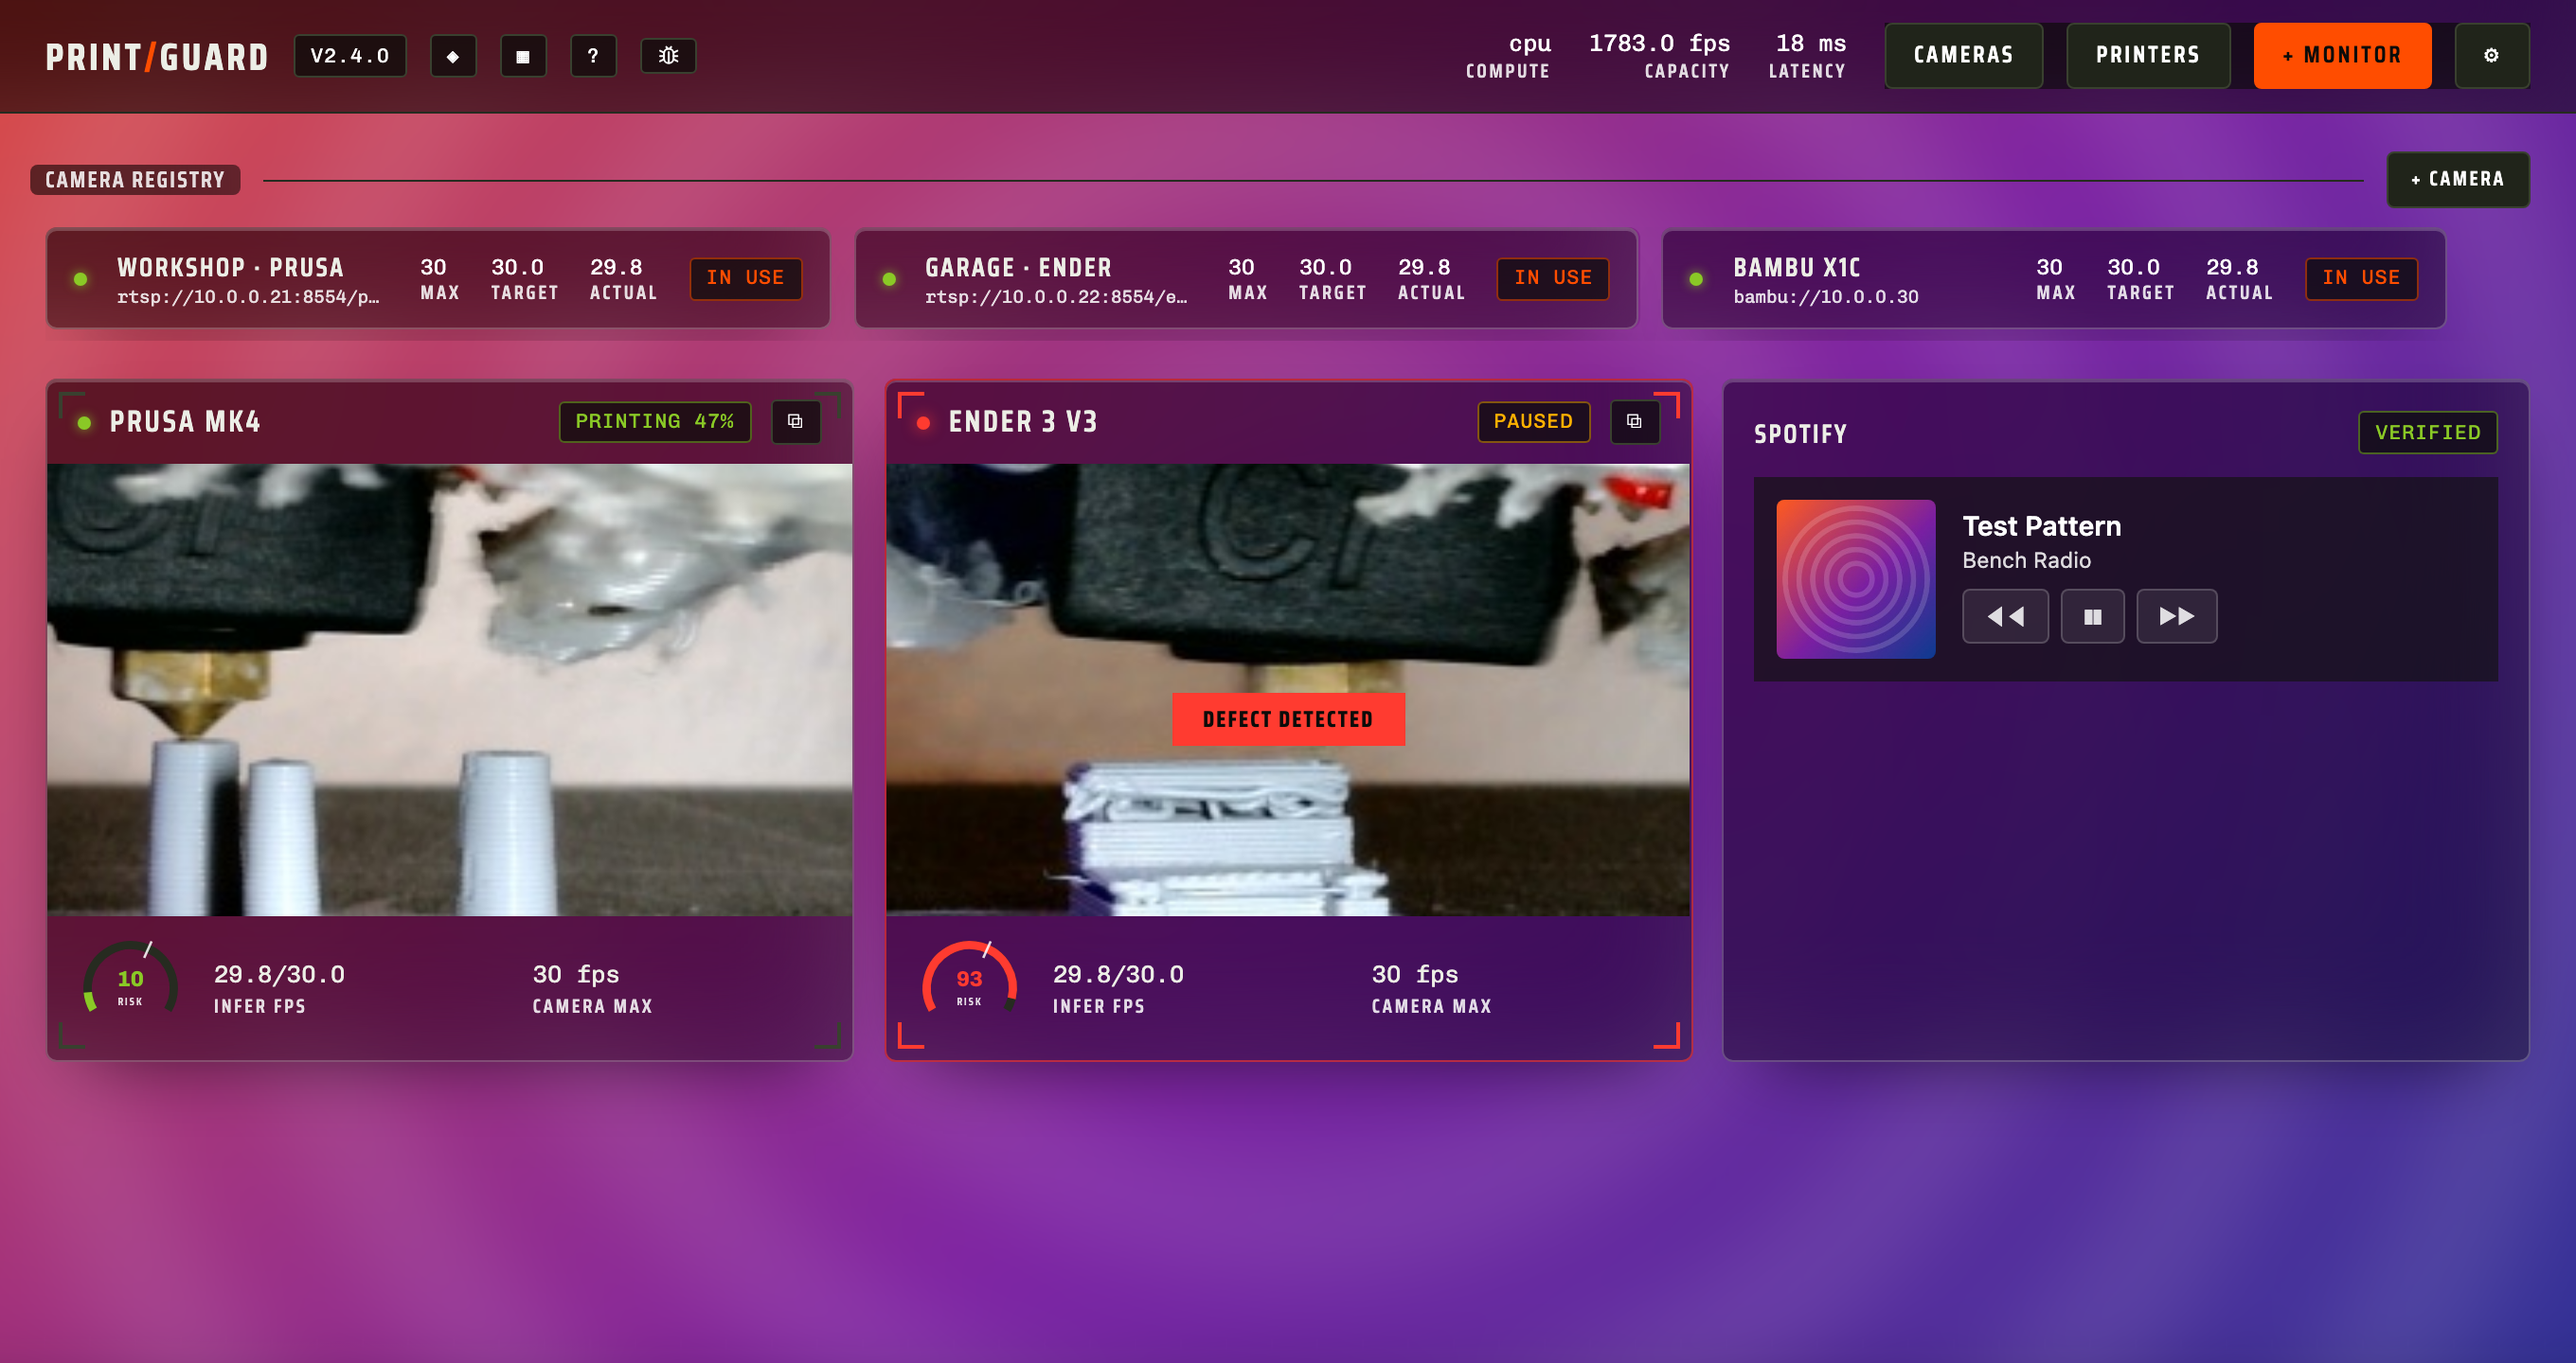
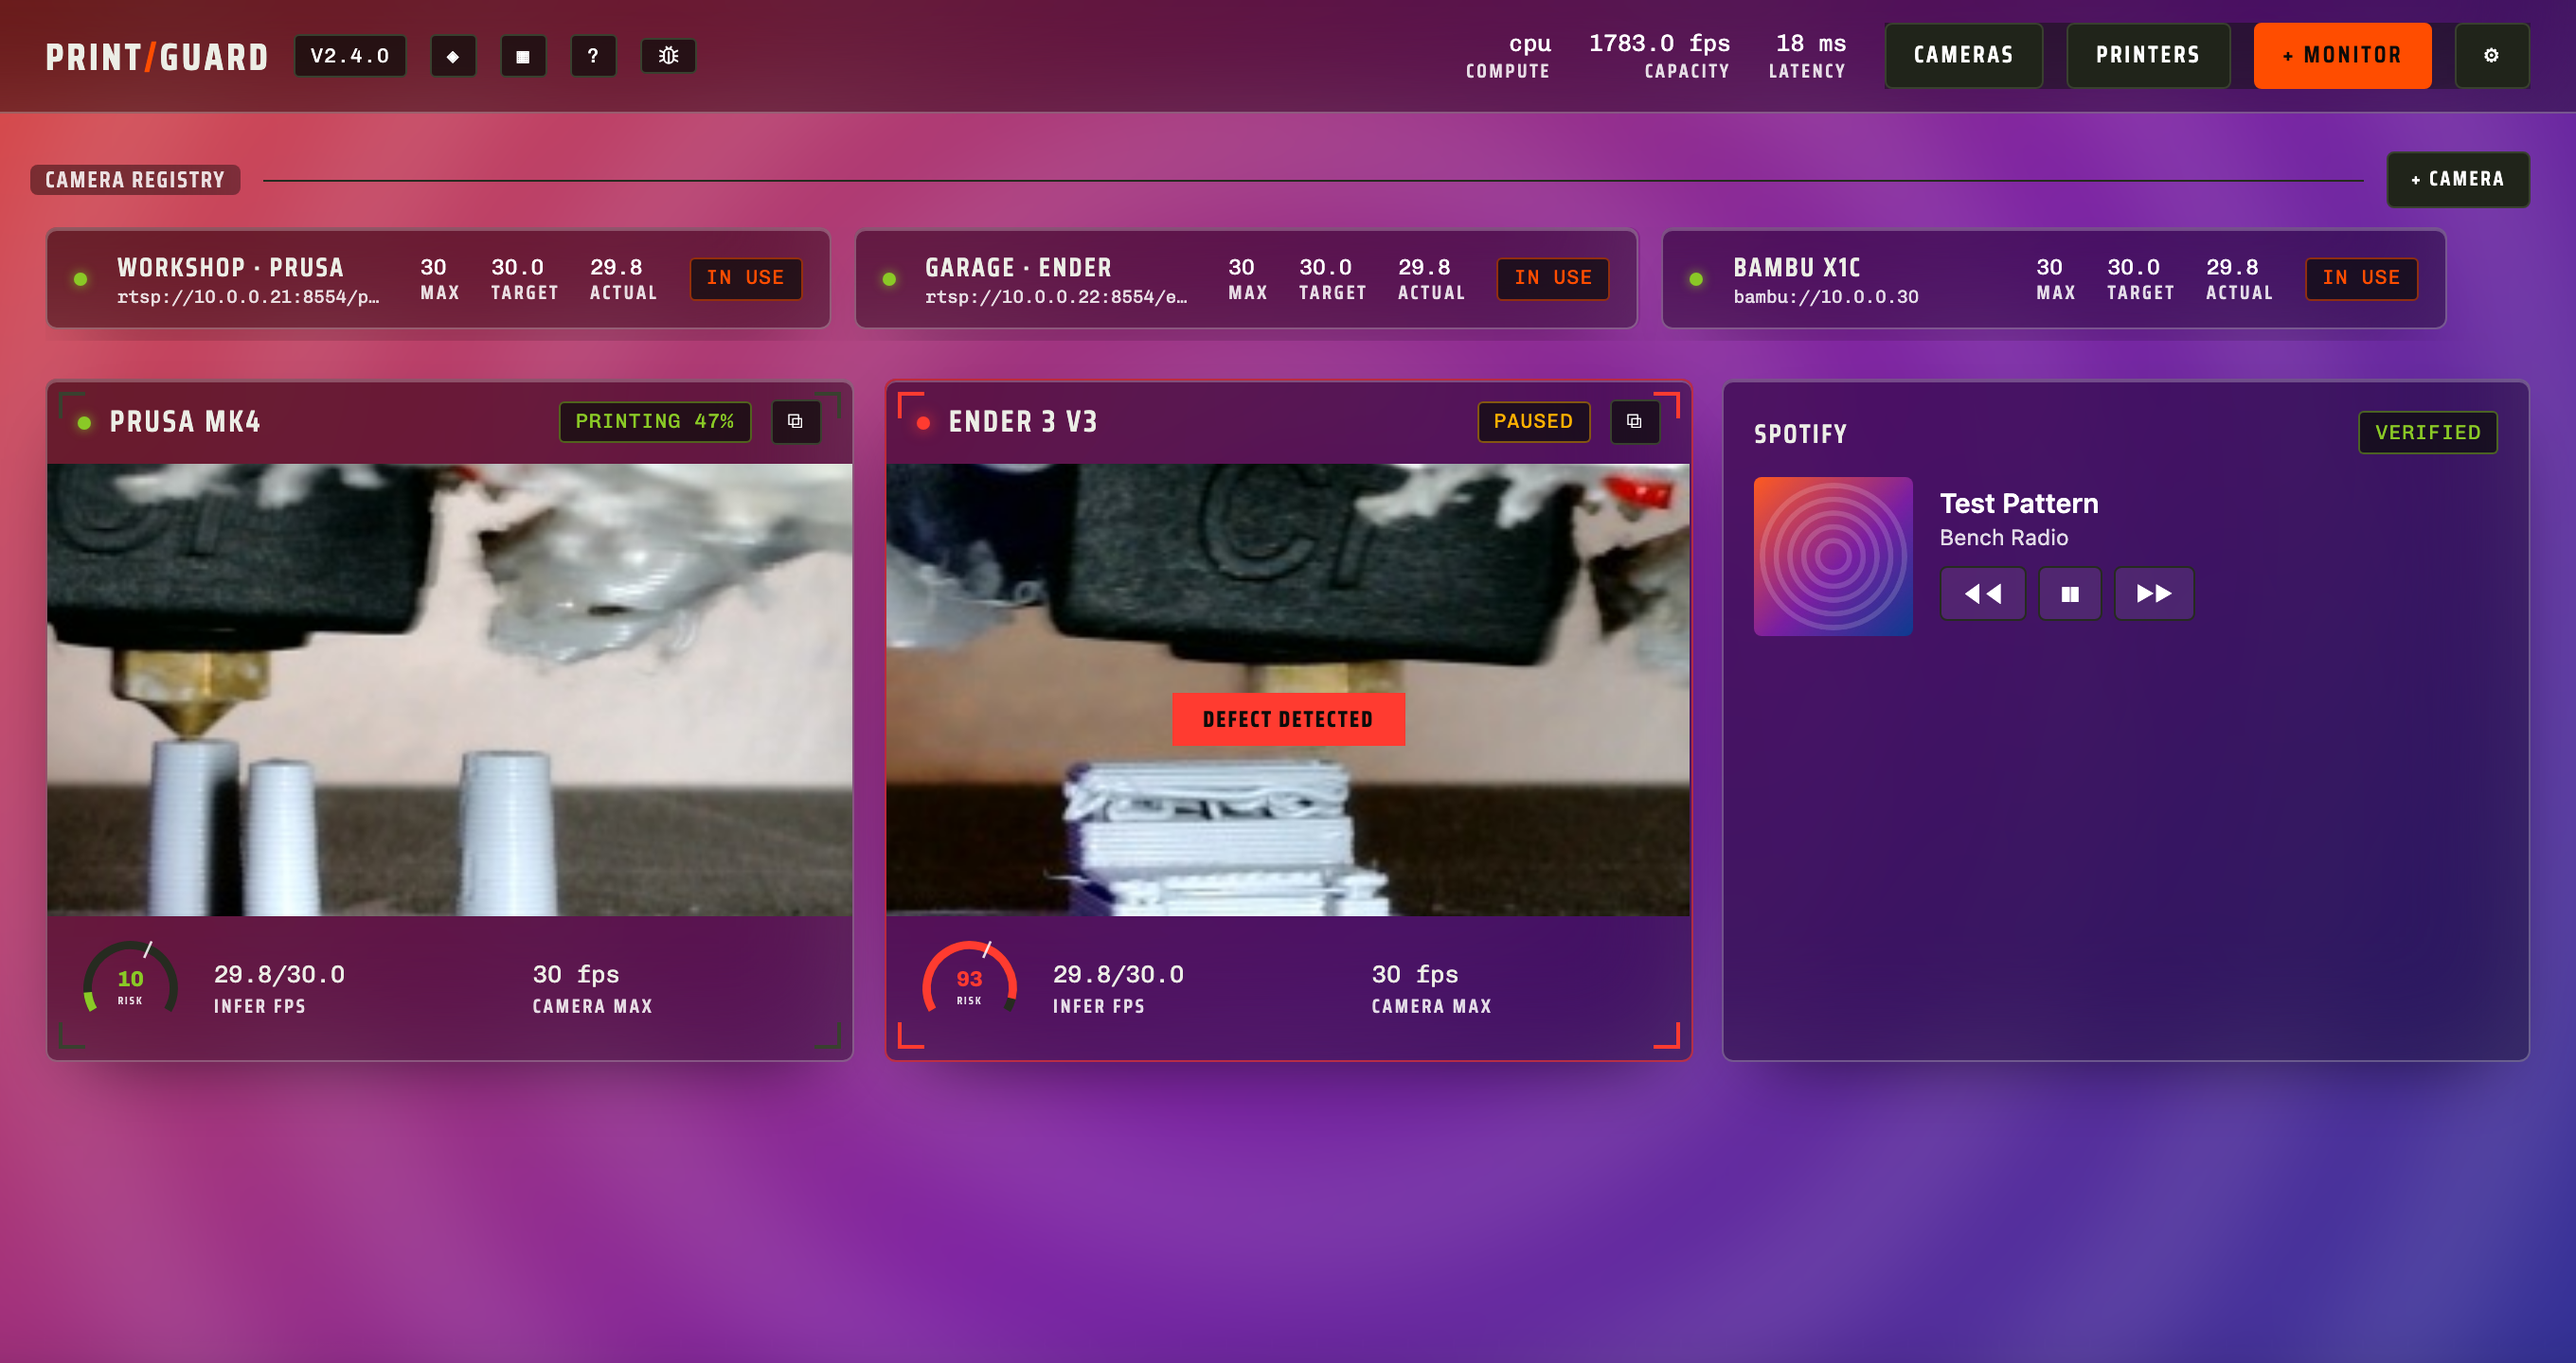
Show the glass sliders in the README

diff --git a/web/screenshots/capture.spec.ts b/web/screenshots/capture.spec.ts
@@ -164,8 +164,19 @@ interface Scene {
   customising?: boolean;
   settingsTab?: string;
   catalogue?: unknown[];
+  tuner?: boolean;
   mutate?: (engine: EngineState) => void;
 }
+
+const live = (e: EngineState) => {
+  e.plugin_events = { http: ["tag", "status", "body"] };
+  e.settings.theme = "glass";
+  e.monitors = e.monitors.slice(0, 2);
+  e.plugins = [
+    installed("spotify", "Spotify", ["net", "oauth", "background"], ["panel"], ["panel.html"]),
+    installed("picture-in-picture", "Picture in picture", ["state:read", "camera:view"], ["monitor"], ["plugin.js"]),
+  ] as never;
+};
 
 const SCENES: Scene[] = [
   { name: "dashboard", width: 1360, height: 620, theme: "dark" },
@@ -186,19 +197,8 @@ const SCENES: Scene[] = [
       e.plugins = [INSTALLED as never];
     },
   },
-  {
-    name: "plugins-live", width: 1360, height: 720, theme: "dark",
-    plugins: ["spotify", "picture-in-picture"],
-    mutate: (e) => {
-      e.plugin_events = { http: ["tag", "status", "body"] };
-      e.settings.theme = "glass";
-      e.monitors = e.monitors.slice(0, 2);
-      e.plugins = [
-        installed("spotify", "Spotify", ["net", "oauth", "background"], ["panel"], ["panel.html"]),
-        installed("picture-in-picture", "Picture in picture", ["state:read", "camera:view"], ["monitor"], ["plugin.js"]),
-      ] as never;
-    },
-  },
+  { name: "plugins-live", width: 1360, height: 720, theme: "dark", plugins: ["spotify", "picture-in-picture"], mutate: live },
+  { name: "glass", width: 1360, height: 720, theme: "dark", plugins: ["spotify", "picture-in-picture"], tuner: true, mutate: live },
 ];
 
 function pluginSources(id: string): Record<string, string> {
@@ -257,6 +257,7 @@ async function capture(browser: Browser, scene: Scene): Promise<void> {
       el.appendChild(img);
     }
   }, FRAMES);
+  if (scene.tuner) await page.evaluate(() => document.getElementById("glass-tuner")?.showPopover());
   await page.evaluate(async () => {
     await document.fonts.ready;
   });

diff --git a/README.md b/README.md
@@ -139,8 +139,8 @@ native window on your own computer.
 ## Themes and layout
 
 Choose **System**, **Light**, **Dark**, **Glass**, or design your own in the built-in theme
-editor. Themes are saved on the hub and follow every browser that opens it. Glass makes the
-panels frosted, so a plugin putting a picture behind the dashboard shows through them.
+editor. Themes are saved on the hub and follow every browser that opens it. Glass frosts the
+panels, so a plugin putting a picture behind the dashboard shows through them.
 
 <table>
 <tr>
@@ -152,6 +152,12 @@ panels frosted, so a plugin putting a picture behind the dashboard shows through
 <td align="center"><b>Light</b></td>
 </tr>
 </table>
+
+Picking Glass drops out two sliders, for how clear the panels are and how light or dark. Text
+takes whichever colour holds 4.5:1 over what the glass is letting through, so any setting stays
+readable.
+
+![The Glass theme with its opacity and tone sliders open over a plugin's cover art](docs/assets/glass.png)
 
 Tap **Customise** to arrange the dashboard around how you work. Drag monitors into any order,
 pin the ones that matter to the front and hide the rest, with a tray to bring them back. The

diff --git a/CHANGELOG.md b/CHANGELOG.md
@@ -20,7 +20,9 @@ The format is [Keep a Changelog](https://keepachangelog.com/en/1.1.0/); versions
   sounds plays a horn when a defect is caught, progress reports sends a tally of a print through
   your alert channels, and Spotify puts the current cover behind the dashboard.
 - A Glass theme, alongside System, Light and Dark. The panels frost over whatever is behind
-  them, which is what the Spotify plugin's cover shows through.
+  them, which is what the Spotify plugin's cover shows through. Picking it drops out two
+  sliders for how clear the panels are and how light or dark, and text takes whichever colour
+  holds 4.5:1 over what the glass lets through.
 
 - Plugins install switched off. Enable lists every permission with the author's reason for it,
   and it is all or nothing. An update that asks for more waits until you accept it.
